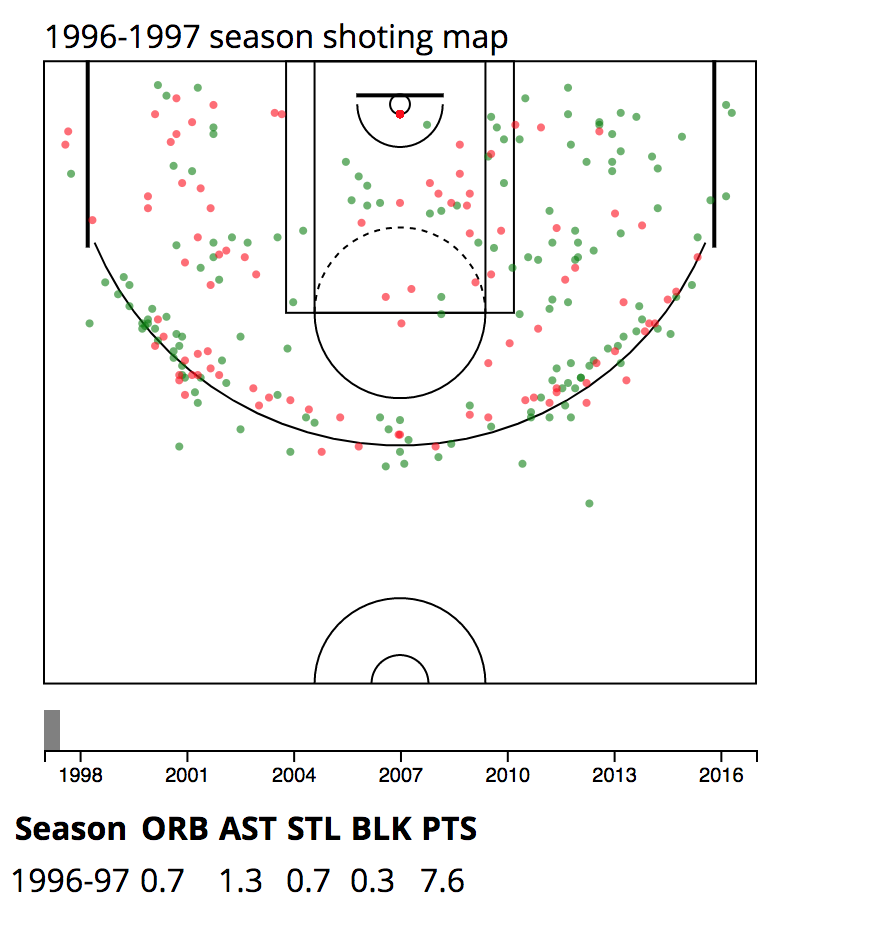
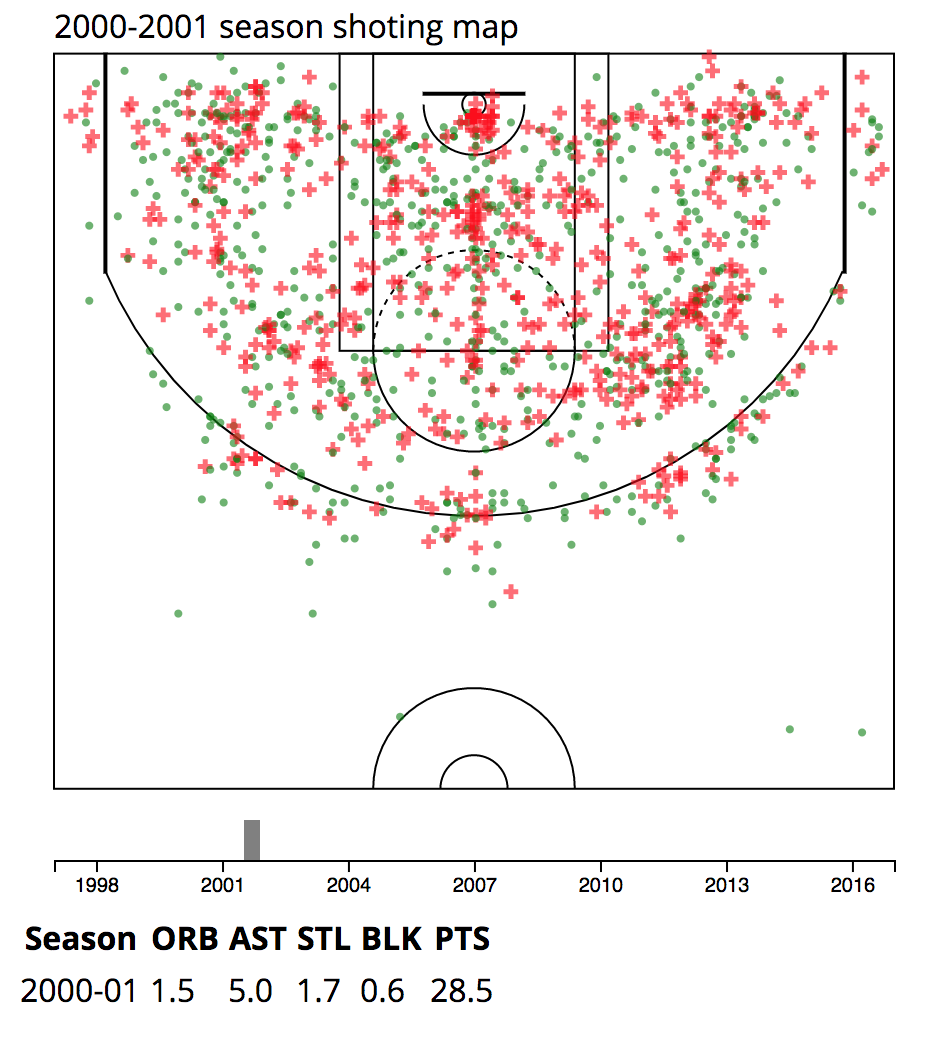
modifed shot shape; update readme

diff --git a/src/Shot.js b/src/Shot.js
@@ -1,5 +1,5 @@
 function add_shot(year){
-    const width = chartDiv.clientWidth/4;
+    const width = 480;
     const height = width/50*47;
 
     const innerWidth = width - margin.left - margin.right;
@@ -45,13 +45,12 @@ function add_shot(year){
 
 
             circles_miss
-              .enter().append('circle')
+              .enter().append('path')
               .merge(circles_miss)
                 .attr('class','circle_miss')
-                .attr('cx', d => shot_xScale(d.loc_x))
-                .attr('cy', d => shot_yScale(d.loc_y))
-                .attr('fill', 'red')
+                .attr('transform',function(d,i) { return 'translate('+shot_xScale(d.loc_x)+','+shot_yScale(d.loc_y)+')';})
+                .attr('d', d3.symbol().type(d3.symbols[1]).size(30))
                 .attr('fill-opacity', 0.6)
-                .attr('r', 2);
+                .attr('fill','red');
           });
 }

diff --git a/src/Court.js b/src/Court.js
@@ -9,7 +9,7 @@ function add_court_component(){
 }
 
 function draw_court(){
-    const width = chartDiv.clientWidth/4;
+    const width = 480;
     const height = width/50*47;
     court_g.attr("width", width)
            .attr("height", height)
@@ -99,7 +99,7 @@ function draw_court(){
 
 
     var angle = Math.atan((10-0.75)/(22))* 180 / Math.PI
-    var dis = court_yScale(17);
+    var dis = court_yScale(18);
     appendArcPath(ThreeLine, dis, (angle+90)*(Math.PI/180), (270-angle)*(Math.PI/180))
         .attr('fill', 'none')
         .attr("stroke", "black")

diff --git a/index.html b/index.html
@@ -22,8 +22,8 @@
         const margin = { left: 20, right: 20, top: 20, bottom: 20 };
         var chartDiv = document.getElementById('court');
         var court = d3.select(chartDiv).append('court').append('svg');
-        court.attr('width', chartDiv.clientWidth/4)
-             .attr('height', chartDiv.clientWidth/200*47)
+        court.attr('width', 480)
+             .attr('height', 480/50*47)
 
         court.append('table');
 

diff --git a/src/Slider.js b/src/Slider.js
@@ -1,5 +1,5 @@
 function Slider () {
-    const width = chartDiv.clientWidth/4;
+    const width = 480
     const height = width/50*47;
     const innerWidth = width - margin.left - margin.right;
     const innerHeight = height - margin.top - margin.bottom;

diff --git a/README.md b/README.md
@@ -31,3 +31,13 @@ The page will be constantly modified and updated with new visualization part. As
 
 ## Development
 For this project, I'm using `python -m http.server` for building local site and testing the codes.
+
+
+## Reference
+The Slider is referencing [Andrew Wang's](https://bl.ocks.org/wonga00) block [Chart Slider](https://bl.ocks.org/wonga00/1e2e28b19129637ff41b986cf0a05aba/68a0f03be6aeefb1f6d008041366fa20542862ed)
+
+The function that I use to draw the arc of the court is referencing [virajsanghvi/d3.basketball-shot-chart](https://github.com/virajsanghvi/d3.basketball-shot-chart).
+
+The size of the court is referencing [Basketball Court Dimensions & Measurements](http://www.courtdimensions.net/basketball-court/index.php)
+
+The player season stats if referencing [Basketball reference](https://www.basketball-reference.com/players/b/bryanko01.html)
